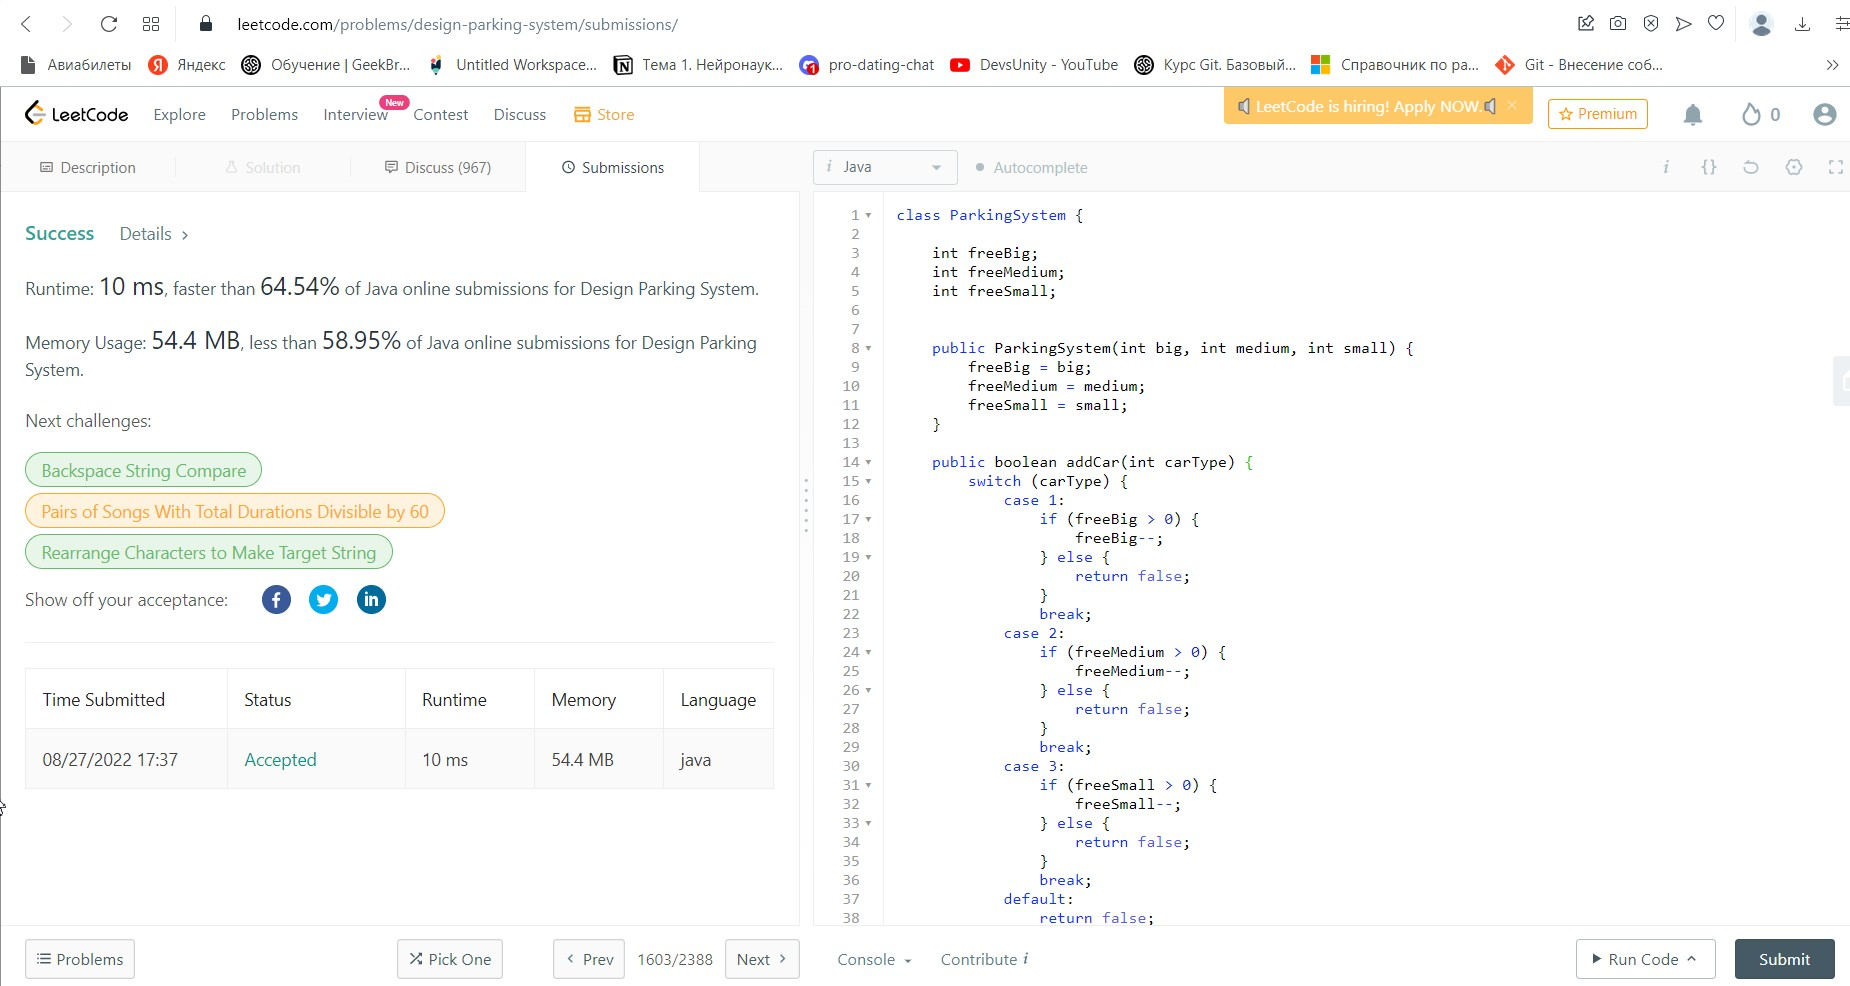
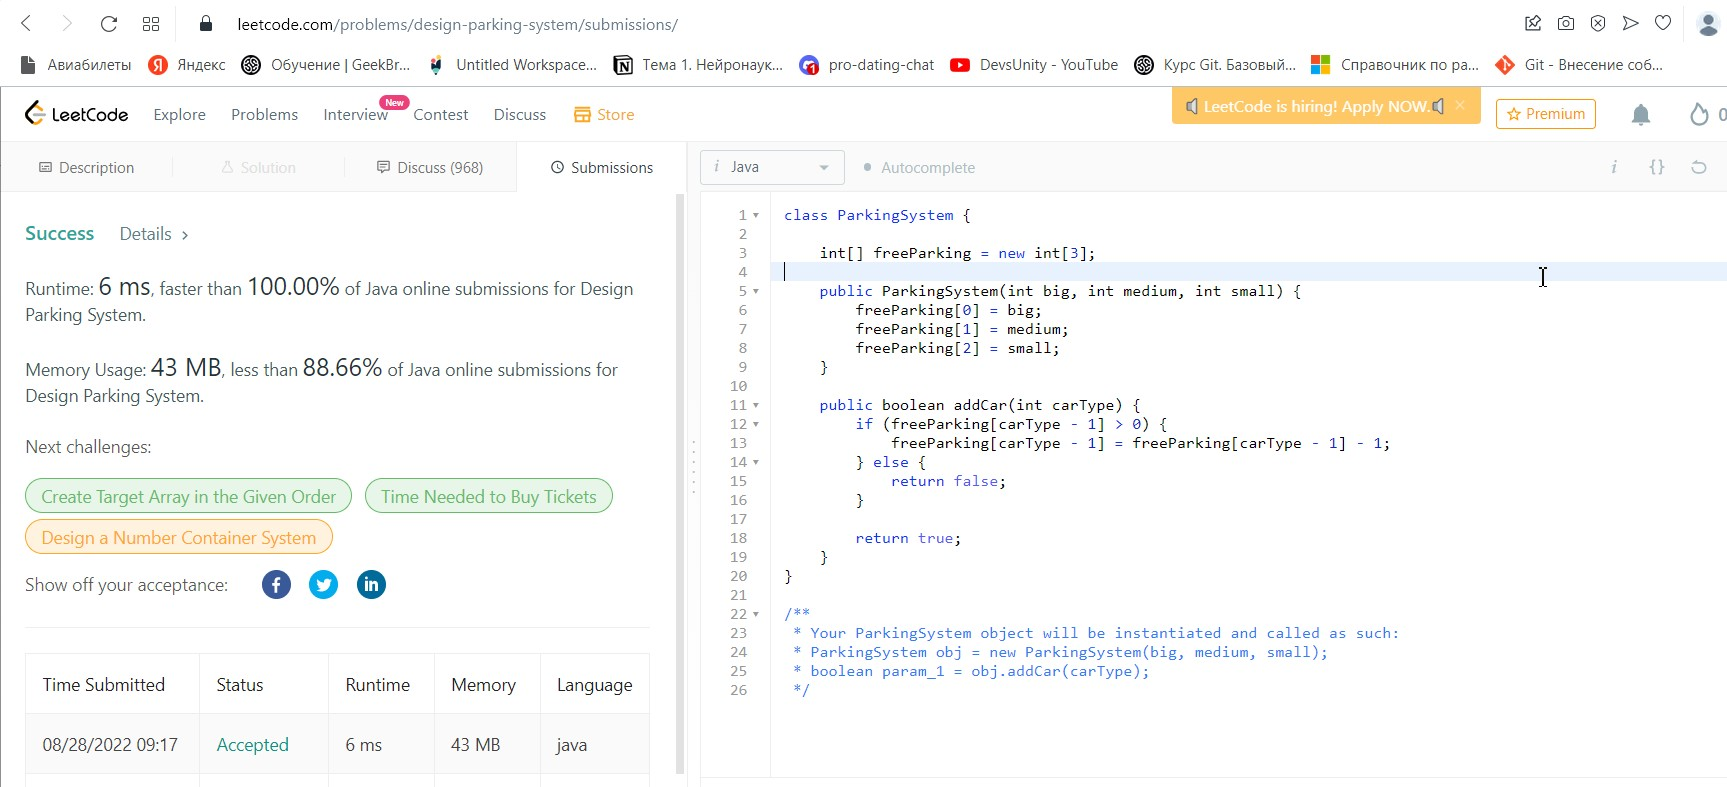
исправлена задача про паркинг по семинару 6

diff --git a/HomeWork_6/ParkingSystem.java b/HomeWork_6/ParkingSystem.java
@@ -1,42 +1,19 @@
 public class ParkingSystem {
-
-    int freeBig;
-    int freeMedium;
-    int freeSmall;
-
+    int[] freeParking = new int[3];
 
     public ParkingSystem(int big, int medium, int small) {
-        freeBig = big;
-        freeMedium = medium;
-        freeSmall = small;
+        freeParking[0] = big;
+        freeParking[1] = medium;
+        freeParking[2] = small;
     }
 
     public boolean addCar(int carType) {
-        switch (carType) {
-        case 1:
-            if (freeBig > 0) {
-                freeBig--;
-            } else {
-                return false;
-            }
-            break;
-        case 2:
-            if (freeMedium > 0) {
-                freeMedium--;
-            } else {
-                return false;
-            }
-            break;
-        case 3:
-            if (freeSmall > 0) {
-                freeSmall--;
-            } else {
-                return false;
-            }
-            break;
-        default:
+        if (freeParking[carType - 1] > 0) {
+            freeParking[carType - 1] = freeParking[carType - 1] - 1;
+        } else {
             return false;
         }
+
         return true;
     }
 
